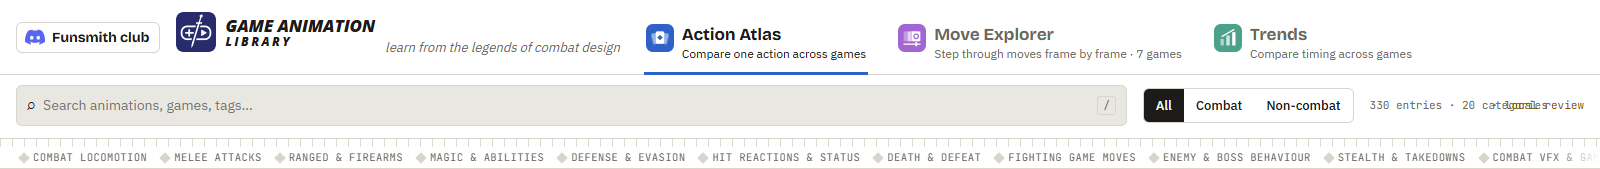
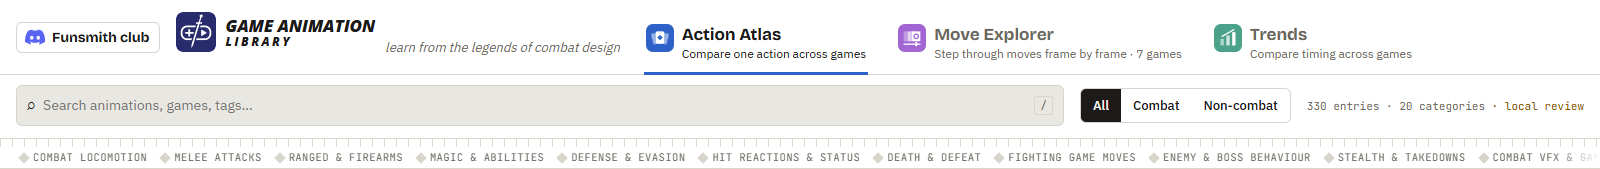
fix(ux): keep the Action Atlas entry count clear of the local review label
The header's version label shared the .meta class with the detail sheet's
definition list, so it picked up that 110px grid column and the count ran
into " · local review". Give the header label its own class and refresh the
PR #62 after-screenshot of the header.

Changed region(s): [[0.6562, 0.503, 1.0, 0.7692], [0.8125, 0.7101, 0.8438, 0.7396], [0.8125, 0.503, 0.8438, 0.5325]]

diff --git a/template.html b/template.html
@@ -49,7 +49,7 @@ header{position:sticky;top:env(safe-area-inset-top,0px);z-index:5;background:var
 .logo .wm b{font-weight:inherit;font-size:17px;letter-spacing:-.01em}
 .logo .wm i{font-size:11.5px;letter-spacing:.24em}
 .brand .tagline{font-size:13px;color:var(--muted);font-style:italic}
-.meta{white-space:nowrap}
+.vermeta{white-space:nowrap}
 .ver{font-family:var(--mono);font-size:11px;color:var(--muted)}
 .search{flex:1 1 280px;display:flex;align-items:center;gap:8px;background:var(--sunk);border:1px solid var(--line);border-radius:6px;padding:0 10px;min-width:0}
 .search input{flex:1;min-width:0;border:0;background:transparent;color:var(--fg);font:inherit;padding:9px 0;outline:none}
@@ -211,7 +211,7 @@ footer{color:var(--muted);font-size:12px;padding-block:24px;border-top:1px solid
     <div class="domain" role="group" aria-label="Domain">
       <button data-d="all" aria-pressed="true">All</button><button data-d="combat" aria-pressed="false">Combat</button><button data-d="non-combat" aria-pressed="false">Non-combat</button>
     </div>
-    <span class="meta"><span class="ver" id="ver"></span><span class="modebar" id="mode"></span></span>
+    <span class="vermeta"><span class="ver" id="ver"></span><span class="modebar" id="mode"></span></span>
     <button class="rail-toggle" id="railBtn" aria-expanded="false">Filters</button>
   </div>
   <div class="ruler"><div class="ticks"></div><div class="keys"><div class="kfs" id="keys"></div><span class="playhead" id="playhead" hidden></span></div></div>
